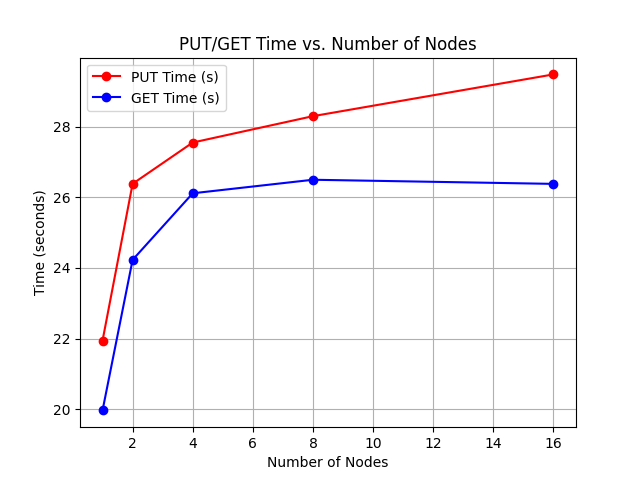
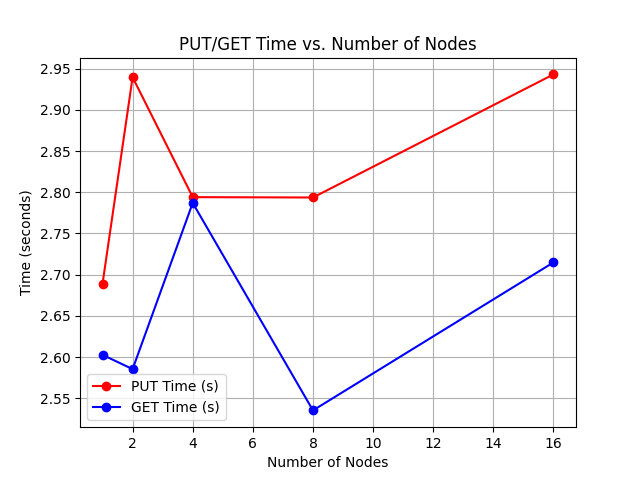
UPT: Experiment with visualization

diff --git a/src/Node.py b/src/Node.py
@@ -6,54 +6,53 @@ import socket
 
 app = Flask(__name__)
 
-def hash_function(value):
-    """Hashes the given value using SHA-1 and returns an integer."""
+
+# Hash function
+def hash_value(value):
     print(f"Hashing value: {value}", flush=True)
+    # using SHA-1 hashing to assign a unique ID to each node or value 
     return int(hashlib.sha1(value.encode()).hexdigest(), 16)
 
+
+# Represents a node in the DHT
 class Node:
+    
+    # Initializing a node
     def __init__(self, address):
-        self.node_id = hash_function(address)
+        self.node_id = hash_value(address)
         self.address = address
         self.successor = None
         self.predecessor = None
         self.data_store = {}
         self.finger_table = []
-        self.known_nodes = []
-        self.node_hashes = {}  # Cache for node hashes
-
+        self.known_nodes = [] 
+        self.node_hashes = {}
+        
         # Log the current node's initialization
         print(f"Initializing node with address {self.address} and ID hash {self.node_id}", flush=True)
     
+    
+    # Responsible for updating the nodes successor and predecessor
     def update_successor_predecessor(self, node_list):
-        """Update successor and predecessor based on the sorted node list."""
+        
         self.known_nodes = node_list
-
         # Cache node hashes to avoid redundant hashing
         for node in self.known_nodes:
             if node not in self.node_hashes:
-                self.node_hashes[node] = hash_function(node)
+                self.node_hashes[node] = hash_value(node)
 
-        # Ensure the current node's address is part of the known nodes
+        # Check to make sure that the current node`s address is part of the known nodes
         if self.address not in self.known_nodes:
             print(f"Adding current node {self.address} to the known nodes list.", flush=True)
             self.known_nodes.append(self.address)
-            self.node_hashes[self.address] = self.node_id  # Cache the current node's hash
-
-        # Log the known nodes
-        print(f"Known nodes: {self.known_nodes}", flush=True)
+            self.node_hashes[self.address] = self.node_id
 
         # Sort all nodes based on their hash values
         sorted_node_hashes = sorted(self.node_hashes.values())
-
-        # Log the sorted node hashes
-        print(f"Sorted node hashes: {sorted_node_hashes}", flush=True)
-
         # Find the hash of the current node
         self_hash = self.node_id
-        print(f"Current node hash: {self_hash}", flush=True)
 
-        # Single node case: point successor and predecessor to itself
+        # Single node case: assign successor and predecessor to its own address
         if len(self.known_nodes) == 1:
             self.successor = self.address
             self.predecessor = self.address
@@ -63,19 +62,20 @@ class Node:
         # Find the position of the current node in the sorted list
         index = sorted_node_hashes.index(self_hash)
 
-        # Assign successor and predecessor
+        # Assign successor and predecessor indexes
         successor_index = (index + 1) % len(sorted_node_hashes)
         predecessor_index = (index - 1) % len(sorted_node_hashes)
 
+        # Assign successor and predecessor based on the indexes
         self.successor = self.get_address_by_hash(sorted_node_hashes[successor_index])
         self.predecessor = self.get_address_by_hash(sorted_node_hashes[predecessor_index])
 
         # Cache predecessor and successor hashes if missing
         if self.successor not in self.node_hashes:
-            self.node_hashes[self.successor] = hash_function(self.successor)
+            self.node_hashes[self.successor] = hash_value(self.successor)
 
         if self.predecessor not in self.node_hashes:
-            self.node_hashes[self.predecessor] = hash_function(self.predecessor)
+            self.node_hashes[self.predecessor] = hash_value(self.predecessor)
 
         print(f"Updated node {self.address}: Successor: {self.successor}, Predecessor: {self.predecessor}", flush=True)
 
@@ -87,48 +87,58 @@ class Node:
 
 
     def get_address_by_hash(self, node_hash):
-        """Helper function to get the address corresponding to a node hash."""
         for node, hashed_value in self.node_hashes.items():
             if hashed_value == node_hash:
                 return node
         return None
 
+
+    # function to update the finger table for a node
     def update_finger_table(self):
-        """Updates the finger table for the current node."""
-        m = 160
+        m = 160 # 160 entries because of SHA-1 hashing
+        
         self.finger_table = []
+        
+        # populating the finger table 
+        # looping over all the possible entries
         for i in range(m):
             start = (self.node_id + 2**i) % (2**m)
             successor = self.find_successor(start)
+            
+            # if valid sucessor found and it`s not in the finger table --> append it
             if successor and successor not in self.finger_table:
                 self.finger_table.append(successor)
         print(f"Finger table for node {self.address} updated: {self.finger_table}", flush=True)
 
+    # Function to find the nodes successor based on a key`s hash
     def find_successor(self, key_hash):
-        """Find the successor of the given key hash."""
-        # Ensure predecessor hash exists
+        # check that predecessor hash exists
         if self.predecessor and self.predecessor not in self.node_hashes:
-            self.node_hashes[self.predecessor] = hash_function(self.predecessor)
-
+            self.node_hashes[self.predecessor] = hash_value(self.predecessor)
+        
+        #  Single node case check
+        #  if so --> assign to itself
         if self.predecessor is None or (self.node_hashes[self.predecessor] < key_hash <= self.node_id):
             return self.address
         else:
+            # looping over all know_nodes
             for node in sorted(self.known_nodes, key=lambda n: self.node_hashes[n]):
                 node_hash = self.node_hashes[node]
                 if self.node_id < node_hash >= key_hash:
                     return node
+            # fallback 
             return self.successor if self.successor != self.address else None
 
+    # function to store a key-value pair in the node
     def put(self, key, value):
-        key_hash = hash_function(key)
+        # hashing the key
+        key_hash = hash_value(key)
         print(f"Storing key: {key}, hash: {key_hash} at node {self.address}", flush=True)
 
-        # Determine if the current node is responsible for storing the key
-        # A node is responsible if its predecessor's hash is less than key_hash
-        # and the key_hash is less than or equal to the current node's hash
+        # Check if the current node is responsible for storing the key
         if (self.predecessor is None or 
-            (hash_function(self.predecessor) < key_hash <= self.node_id) or 
-            (self.node_id < hash_function(self.predecessor) and (key_hash > hash_function(self.predecessor) or key_hash <= self.node_id))):
+            (hash_value(self.predecessor) < key_hash <= self.node_id) or 
+            (self.node_id < hash_value(self.predecessor) and (key_hash > hash_value(self.predecessor) or key_hash <= self.node_id))):
             self.data_store[key_hash] = value
             print(f"Data stored locally at {self.address} for key_hash: {key_hash}", flush=True)
             return "Stored locally"
@@ -150,10 +160,11 @@ class Node:
             return str(e)
 
 
-
+    # function to get a value based on a given key
     def get(self, key):
-        """Retrieve the value for a given key from the DHT."""
-        key_hash = hash_function(key)
+        # hashing the key
+        key_hash = hash_value(key)
+        
         print(f"Retrieving key: {key}, hash: {key_hash} from node {self.address}", flush=True)
         if key_hash in self.data_store:
             print(f"Found key {key} in node {self.address}", flush=True)
@@ -163,7 +174,6 @@ class Node:
         if self.successor == self.address:
             print(f"Stopping forwarding to {self.successor} in single-node case.", flush=True)
             return None
-        
         
         try:
             print(f"Forwarding GET request to {self.successor} for key {key}", flush=True)
@@ -183,17 +193,14 @@ class Node:
 @app.route('/network', methods=['POST'])
 def network_update():
     node_list = request.json['nodes']
-
     # Ensure the current node's address is in the list
     if node1.address not in node_list:
         print(f"Adding current node {node1.address} to node_list.", flush=True)
         node_list.append(node1.address)
-    
     # Log the node list and their hashes for debugging
     print(f"Received node list: {node_list}", flush=True)
-    hashed_nodes = [hash_function(node) for node in node_list]
+    hashed_nodes = [hash_value(node) for node in node_list]
     print(f"Hashes of the received nodes: {hashed_nodes}", flush=True)
-
     # Call update successor and predecessor
     node1.update_successor_predecessor(node_list)
     
@@ -204,16 +211,18 @@ def network_update():
 def put_value(key):
     value = request.data.decode('utf-8')
     response = node1.put(key, value)
-    return Response(response, content_type='text/plain'), 200  # Return plain text response
+    return Response(response, content_type='text/plain'), 200  
 
 @app.route('/storage/<key>', methods=['GET'])
 def get_value(key):
     value = node1.get(key)
     if value is not None:
-        return Response(value, content_type='text/plain'), 200  # Return plain text response
+        return Response(value, content_type='text/plain'), 200
     else:
         return Response("Key not found", content_type='text/plain'), 404
 
+
+# ! Helper endpoints
 @app.route('/successor', methods=['GET'])
 def get_successor():
     return jsonify({'successor': node1.successor}), 200
@@ -230,10 +239,11 @@ def get_finger_table():
 def helloworld():
     return node1.address, 200
 
+
 if __name__ == '__main__':
     port = int(sys.argv[1])
-    hostname = socket.gethostname().split('.')[0]
+    hostname = socket.gethostname().split('.')[0]   # Get the hostname without the domain (without .ifi.uit.no)
     node_address = f"{hostname}:{port}"
-    node1 = Node(address=node_address)  # Use node_address for consistent hashing
+    node1 = Node(address=node_address) 
     print(f"Initializing node with address: {node_address}", flush=True)
     app.run(host="0.0.0.0", port=port)

diff --git a/src/experiment.py b/src/experiment.py
@@ -5,48 +5,60 @@ import string
 import sys
 import matplotlib.pyplot as plt
 
-def generate_random_string(length=8):
-    """Generates a random string of given length."""
-    return ''.join(random.choices(string.ascii_lowercase + string.digits, k=length))
 
 def perform_put_requests(node_address, num_operations):
-    """Performs a series of PUT requests to the Chord node."""
     keys = []
+    # Start timer
     start_time = time.time()
-    for _ in range(num_operations):
-        key = generate_random_string()
-        value = generate_random_string(16)
+    
+    # Loop over the number of operations
+    for i in range(num_operations):
+        key = f'key-{i}'
+        value = f'value-{i}'
+        # PUT request
         response = requests.put(f"http://{node_address}/storage/{key}", data=value)
         if response.status_code != 200:
             print(f"Failed PUT request for key: {key}")
         keys.append(key)
+    
+    # Calculate time
     elapsed_time = time.time() - start_time
+    
     return elapsed_time, keys
 
 def perform_get_requests(node_address, keys):
-    """Performs a series of GET requests to the Chord node."""
+    # Start timer
     start_time = time.time()
+    # Loop over all the keys from 'perform_put_requests'
     for key in keys:
+        # GET request
         response = requests.get(f"http://{node_address}/storage/{key}")
         if response.status_code != 200:
             print(f"Failed GET request for key: {key}")
+    # Calculate time
     elapsed_time = time.time() - start_time
     return elapsed_time
 
 def run_experiment(node_addresses, num_operations):
-    """Runs the experiment for the given nodes and operations, and measures time."""
+    # initialize PUT and GET times
     total_put_time = 0
     total_get_time = 0
 
+    # Loop over all the nodes
     for node_address in node_addresses:
         print(f"Measuring PUT time for node {node_address}...")
+        # Perform PUT requests
         put_time, keys = perform_put_requests(node_address, num_operations)
+        # add time to the total time
         total_put_time += put_time
 
         print(f"Measuring GET time for node {node_address}...")
+        # perform GET requests
         get_time = perform_get_requests(node_address, keys)
+        # add time to the total time
         total_get_time += get_time
 
+    # Calculate the average times
     avg_put_time = total_put_time / len(node_addresses)
     avg_get_time = total_get_time / len(node_addresses)
 
@@ -57,30 +69,22 @@ def run_experiment(node_addresses, num_operations):
 
 def plot_results(node_counts, put_times, get_times):
     """Plots the elapsed time for PUT and GET operations vs. the number of nodes."""
-    plt.plot(node_counts, put_times, 'r-o', label='PUT Time (s)')
-    plt.plot(node_counts, get_times, 'b-o', label='GET Time (s)')
-    plt.xlabel("Number of Nodes")
-    plt.ylabel("Time (seconds)")
-    plt.title("PUT/GET Time vs. Number of Nodes")
-    plt.legend()
-    plt.grid(True)
-    plt.savefig("time_vs_nodes_plot.png")
-    plt.show()
-    print("Plot saved as time_vs_nodes_plot.png")
+  
 
 if __name__ == "__main__":
     if len(sys.argv) < 3:
         print("Usage: python experiment.py <node1> <node2> ...")
         sys.exit(1)
 
-    # Parse node addresses and the number of operations
     node_addresses = sys.argv[1:-1]
-    num_operations = 1000
+    num_operations = 100
 
     print(f"Running experiment with nodes: {node_addresses} and {num_operations} operations.")
 
-    # Run the experiment for 1, 2, 4, 8, and 16 nodes
+    # Run the experiment x number of nodes (1, 2, 4, 8 or 16)
     node_counts = [1, 2, 4, 8, 16]
+    
+    # initializing PUT and GET times
     put_times = []
     get_times = []
 
@@ -91,5 +95,14 @@ if __name__ == "__main__":
         put_times.append(put_time)
         get_times.append(get_time)
 
-    # Plot the results
-    plot_results(node_counts, put_times, get_times)
+    # Plotting the results with Matplotlib 
+    plt.plot(node_counts, put_times, 'r-o', label='PUT Time (s)')
+    plt.plot(node_counts, get_times, 'b-o', label='GET Time (s)')
+    plt.xlabel("Number of Nodes")
+    plt.ylabel("Time (seconds)")
+    plt.title("PUT/GET Time vs. Number of Nodes")
+    plt.legend()
+    plt.grid(True)
+    plt.savefig("time_vs_nodes_plot.png")
+    plt.show()
+    print("Plot saved as time_vs_nodes_plot.png")
